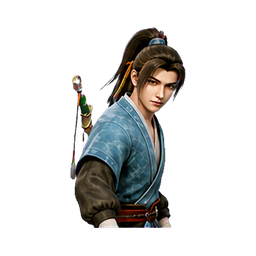
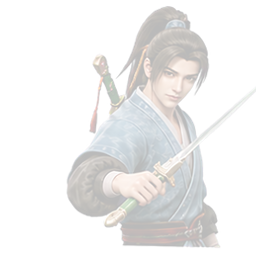
feat: adopt 48-frame Baxian animations

diff --git a/src/pages/ChatsPage.tsx b/src/pages/ChatsPage.tsx
@@ -365,7 +365,7 @@ function BaxianBubbleRunner({ active, effectKey, style }: { active: boolean; eff
     let visible = false;
     let timer: number | null = null;
     let ownsPlayback = false;
-    const duration = character === "lv" ? 1100 : character === "zhongli" ? 1270 : 995;
+    const duration = 2000;
 
     const finish = () => {
       if (!ownsPlayback) return;
@@ -402,7 +402,7 @@ function BaxianBubbleRunner({ active, effectKey, style }: { active: boolean; eff
   return (
     <>
       <span ref={runnerRef} aria-hidden="true" className={`baxian-bubble-runner is-${character}${playing ? " is-playing" : ""}`}>
-        {playing ? <img alt="" src={`/assets/baxian/${character === "lv" ? "lv-dongbin" : character === "zhongli" ? "zhongli-quan" : "he-xiangu"}-24.webp`} /> : null}
+        {playing ? <img alt="" src={`/assets/baxian/${character === "lv" ? "lv-dongbin" : character === "zhongli" ? "zhongli-quan" : "he-xiangu"}-48-v2.webp`} /> : null}
       </span>
       <button
         aria-label={i18n.t("message.replayCharacterEffect")}
